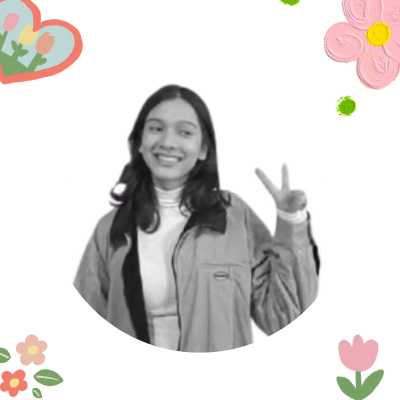
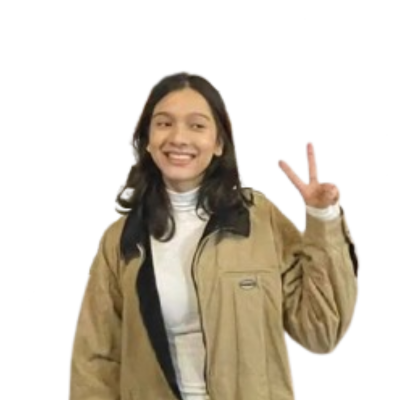
v1.1.1: improved the intropage

diff --git a/partsofme.html b/partsofme.html
@@ -12,15 +12,15 @@
             <img src="assets/img/krishtina mosaic.svg" alt="Logo" class="logo">
         </a>        
         <div class="nav-links">
-            <a href="art.html">art</a>
-            <a href="design.html">design</a>
-            <a href="let'scollaborate.html">let's collaborate</a>
+            <a href="art.html">art.</a>
+            <a href="design.html">design.</a>
+            <a href="let'scollaborate.html">let's collaborate.</a>
         </div>
     </nav>
     <div class="container">
         <section id="section1">
             <div class="content">
-                <div class="sec-1container">
+                <div class="image-container">
                     <img src="assets/img/kk2.png" alt="whoami">
                 </div>
                 <div class="text-container">
@@ -34,7 +34,7 @@
         <section id="section2">
             <div class="content">
                 <div class="image-container">
-                    <img src="/api/placeholder/600/400" alt="Section 2">
+                    <img src="assets/img/art/5-433x577.png" alt="Section 2">
                 </div>
                 <div class="text-container">
                     <h1>expression.</h1>
@@ -60,10 +60,10 @@
     <section id="section4">
         <div class="content">
             <div class="image-container">
-                <img src="/api/placeholder/600/400" alt="Section 4">
+                <img src="assets/img/WhatsApp Image 2024-11-19 at 23.18.02.jpeg" alt="Section 4">
             </div>
             <div class="text-container">
-                <h1>stories.</h1>
+                <h1>people.</h1>
                 <p>I love people—their stories, perspectives, and the unique ways they experience the world. Each individual offers a new lens through which we can understand life, filled with insights that challenge our assumptions and broaden our empathy. There's something profoundly moving about how diverse yet interconnected our human journeys are, and I’m constantly inspired by the richness of these experiences.
                 </p>
             </div>

diff --git a/partsofme.css b/partsofme.css
@@ -29,7 +29,7 @@ nav {
 
 .nav-links a {
     font-family: "Newsreader";
-    font-weight: 300; 
+    font-weight: 400; 
     font-size: 15px;
     text-decoration: none;
     color: black;
@@ -90,23 +90,32 @@ section.visible {
     gap: 20px;
 }
 
-.image-container {
-    flex: 1;
-    margin-left:50px ;
+h1{
+    padding-bottom: 50px;
+    font-family: "Newsreader";
 }
 
-.sec-1container{
-    margin-left: 20px;
+.image-container {
+    flex: 1;
+    margin-left:200px ;
+}
+
+.sec1-container{
+    flex: 1;
+    margin-left: 50px;
 }
 
 .image-container img{
-    width: 700px;
-    height: auto;
+    width: 350px; 
+    height: 350px; 
+    object-fit: cover; 
+    border-radius: 8px;
 }
+
 
 .text-container {
     flex: 1;
-    font-family: "Newsreader";
+    font-family: "Inter";
     font-size: 20px;
     font-weight: 300;
     color:#333;

diff --git a/index.html b/index.html
@@ -18,10 +18,10 @@
   <img src="assets/img/krishtina mosaic.svg" alt="logo">
 
   <div class="navbar">
-    <a href="partsofme.html">parts of me</a>
-    <a href="#">art</a>
-    <a href="#">design</a>
-    <a href="let'scollaborate.html">let's collaborate</a>
+    <a href="partsofme.html">parts of me.</a>
+    <a href="art.html">art.</a>
+    <a href="design.html">design.</a>
+    <a href="let'scollaborate.html">let's collaborate.</a>
   </div>
 </body>
 

diff --git a/home.css b/home.css
@@ -17,7 +17,7 @@
     position: absolute;
     top: 35%;
     transform: translateY(-50%);
-    left: 51%;
+    left: 50.75%;
     transform: translateX(-50%);
     width: 40%;
     height: auto;
@@ -42,7 +42,7 @@
 
   .navbar a {
     font-family: "Newsreader";
-    font-weight: 500;
+    font-weight: 600;
     /* font-size: 15px; */
     text-decoration: none;
     color: black;

diff --git a/let'scollaborate.css b/let'scollaborate.css
@@ -29,7 +29,7 @@ nav {
 
 img{
     width: 110%;
-    height: auto%;
+    height: auto;
 }
 
 .nav-links a {
